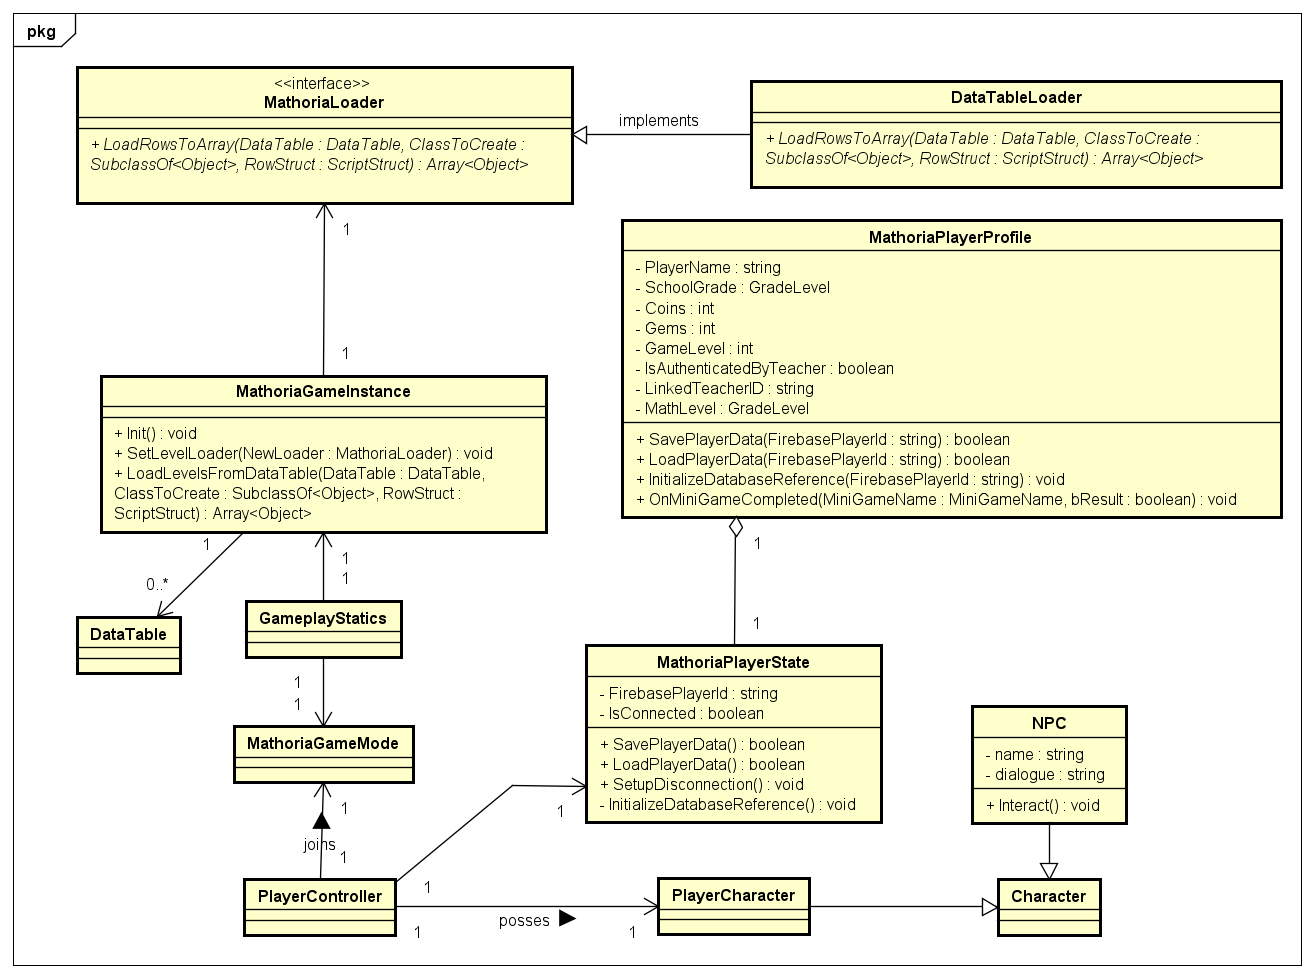
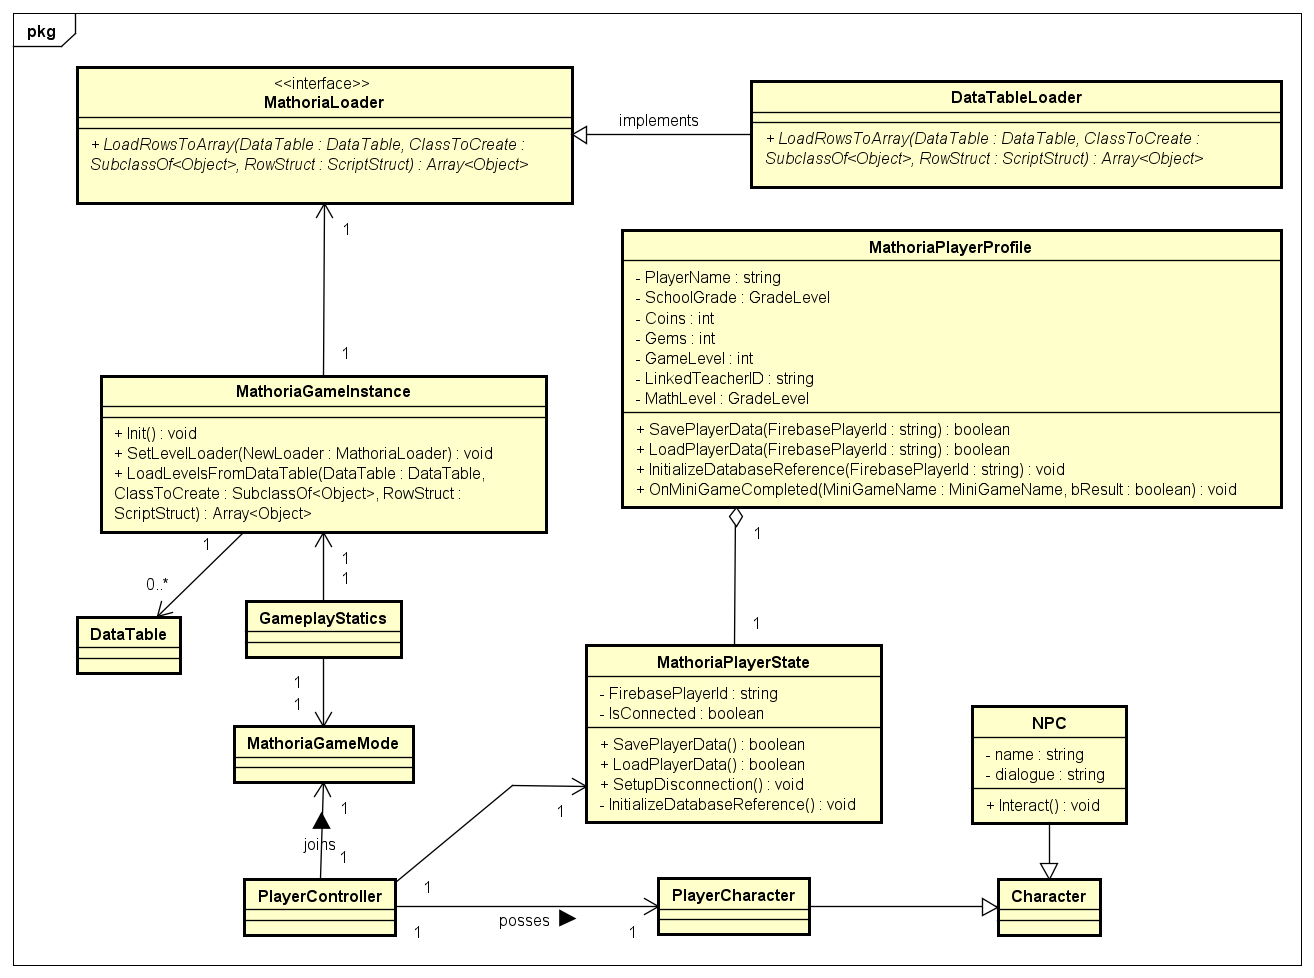
readme update

Changed region(s): [[0.468, 0.2147, 0.9985, 0.5521], [0.6553, 0.3681, 0.6865, 0.3988]]

diff --git a/Source/Mathoria/Private/MathoriaPlayerProfile.cpp b/Source/Mathoria/Private/MathoriaPlayerProfile.cpp
@@ -221,9 +221,6 @@ bool UMathoriaPlayerProfile::LoadPlayerData(FString FirebasePlayerId)
                     int32 MathLevelInt = Snapshot->GetChild("math_level")->GetValue().AsInt32();
                     MathLevel = MapIntToSchoolGradeEnum(MathLevelInt);
 
-                    IsAuthenticatedByTeacher = Snapshot->GetChild("is_authenticated_by_teacher")->GetValue().AsBool();
-
-
                     if (Snapshot->HasChild("completed_tasks"))
                     {
                         // Convert Firebase array to Unreal array

diff --git a/Source/Mathoria/Private/Test/ExaminerNPC.cpp b/Source/Mathoria/Private/Test/ExaminerNPC.cpp
@@ -15,7 +15,7 @@ void AExaminerNPC::StartTestOnInteraction()
     {
         AMathoriaPlayerState* PlayerStateRef = PlayerController->GetPlayerState<AMathoriaPlayerState>();
         /*PlayerStateRef->LoadPlayerData();*/
-        if (PlayerStateRef && PlayerStateRef->PlayerProfile->IsAuthenticatedByTeacher)
+        if (PlayerStateRef)
         {
             UE_LOG(LogTemp, Warning, TEXT("Starting TARL Test!"));
 

diff --git a/Source/Mathoria/Private/Test/TarlManager.cpp b/Source/Mathoria/Private/Test/TarlManager.cpp
@@ -43,7 +43,7 @@ UTarlManager* UTarlManager::Get()
 // Function to check if the player can take the test
 bool UTarlManager::CanStartTest()
 {
-    return (PlayerStateRef && PlayerStateRef->PlayerProfile && PlayerStateRef->PlayerProfile->IsAuthenticatedByTeacher);
+    return (PlayerStateRef && PlayerStateRef->PlayerProfile);
 }
 
 void UTarlManager::StartTest()

diff --git a/Source/Mathoria/Public/MathoriaPlayerProfile.h b/Source/Mathoria/Public/MathoriaPlayerProfile.h
@@ -77,8 +77,6 @@ public:
 	TArray<FString> ClothingItems;
 
 	// TEST
-	UPROPERTY(EditAnywhere, BlueprintReadWrite, Category = "Test")
-	bool IsAuthenticatedByTeacher;
 
 	UPROPERTY(EditAnywhere, BlueprintReadWrite, Category = "Test")
 	FString LinkedTeacherID;

diff --git a/README.md b/README.md
@@ -7,11 +7,11 @@ Welcome to **Math Reinforcement Mini Games**, an engaging suite of mini-games de
 1. [Market Math](#market-math)
 2. [Shape Builder](#shape-builder)
 3. [Delivery Dash](#delivery-dash)
-4. [Restaurant Rush](#restaurant-rush)
-5. [Math Hoops](#math-hoops)
-6. [System Components](#system-components)
-7. [Installation Instructions](#installation-instructions)
-8. [Teacher Dashboard Integration](#teacher-dashboard-integration)
+4. [Math Hoops](#math-hoops)
+5. [System Components](#system-components)
+6. [Installation Instructions](#installation-instructions)
+7. [Teacher Dashboard Integration](#teacher-dashboard-integration)
+8. [Important Update](#important-update)
 9. [Contributing](#contributing)
 10. [Contact](#contact)
 
@@ -130,45 +130,6 @@ Welcome to **Math Reinforcement Mini Games**, an engaging suite of mini-games de
 
 ---
 
-## Restaurant Rush
-
-![Restaurant Scene Reference Image](images/Restaurant.png)
-![Coffee Scene Reference Image](images/Coffee.png)
-
-### **Restaurant / Coffee Shop - 🍕 Fractions & Decimals**
-**🕹 Gameplay Mechanics**: 
-- 🎯 **Goal**: Prepare and serve food based on fraction-based recipes.
-- 🛒 **Scenarios**: Measure ingredients, serve customers quickly.
-
-**🌍 World Setting & NPCs**:
-- 📍 **Location**: Cozy restaurant or bustling coffee shop.
-- 👥 **NPCs**: Customers with specific food orders, chef giving instructions.
-
-**🎥 Camera Perspective & Movement**:
-- 👁 **Perspective**: Third-person, slightly above kitchen view.
-- 🎯 **Movement**: Semi-locked with slight pan to follow player within kitchen.
-
-**🕹 Player Controls & Actions**:
-- 🍳 Select ingredients.
-- ✂ Drag to pour/cut portions.
-- ✅ Serve dishes before customer patience runs out.
-
-**🎁 Rewards System**:
-- 📦 **Accurate servings**:  Coins, XP (GameLevel).
-- ⚡ **Fast service**: Bonus Gems.
-
-**🛠 Unreal Engine Development Directives**:
-- 🗝 **Key Systems**:
-   - 🥗 **Ingredient System**: Interactive objects with quantity tracking.
-   - ⏱ **Customer Patience Timer**: Affects rewards based on service speed.
-   - 📏 **Recipe Validator**: C++ logic to check correct portions.
-- 🖼 **UI Components**: Recipe book, fraction sliders.
-- 🎬**Animation**: Pouring effects, cooking animations.
-
-**🐈⬛ GitHub Branch**: `restaurant`
-
----
-
 ## Math Hoops
 
 ### **Basketball Court - 🏀 Quick Calculations (already in development as part of the course demonstration)**
@@ -253,16 +214,7 @@ For a detailed explanation of the class structure, please refer to the diagram a
    - `AssignDeliveryTask()`: Assigns a delivery task with a math-based clue.
    - `ConfirmDelivery()`: Validates if the player has delivered to the correct location.
 
-   **4. `AChefNPC` (Restaurant Rush Mini-Game)**
-   - **Role**: Represents the chef or customer who provides cooking tasks.
-   - **Attributes**:
-   - `Recipe`: The fraction-based recipe the player must follow.
-   - `PatienceTimer`: The time limit for completing the task.
-   - **Methods**:
-   - `ProvideRecipe()`: Gives the player a fraction-based recipe to follow.
-   - `ValidateDish()`: Checks if the player has prepared the dish correctly.
-
-   **5. `ACoachNPC` (Math Hoops Mini-Game)**
+   **4. `ACoachNPC` (Math Hoops Mini-Game)**
    - **Role**: Represents the coach or teammate who provides quick math challenges.
    - **Attributes**:
    - `MathProblem`: The quick math problem the player must solve.
@@ -285,7 +237,6 @@ For a detailed explanation of the class structure, please refer to the diagram a
 - **`AMarketMathController`**: Handles logic for the Market Math mini-game, including transactions and currency management.
 - **`AShapeBuilderController`**: Manages shape construction mechanics and puzzle validation.
 - **`ADeliveryDashController`**: Controls delivery missions, vehicle navigation, and clue decoding.
-- **`ARestaurantRushController`**: Oversees cooking mechanics, ingredient measurements, and order validation.
 - **`AMathHoopsController`**: Manages quick calculation challenges, shooting mechanics, and combo scoring.
 
 #### 🏆 **Rewards & Progression Systems**
@@ -310,6 +261,15 @@ For a detailed explanation of the class structure, please refer to the diagram a
 - **Real-Time Monitoring of Student Performance**: Track student performance in real-time while they are engaging with the mini-games.
 - **Analytics & Reports**: Teachers have access to detailed analytics, showing student progress, areas of strength, and areas for improvement. Reports can be generated based on student performance, helping educators adjust teaching strategies as needed.
 - **Link to GitHub Repo**: [GitHub Repository for Teacher Dashboard](https://github.com/najlae01/math-web.git)
+
+---
+
+## Important Update 
+We are making a key change to how students/players create and access their game accounts. Going forward, students will not be able to create accounts themselves—only teachers or school administrators can do so.
+
+To streamline this process, we are removing the in-game authentication form. Instead, students will log in using a QR code provided by their teacher upon account creation.
+
+In the future, we plan to introduce fingerprint authentication as an option for compatible devices.
 
 ---
 
